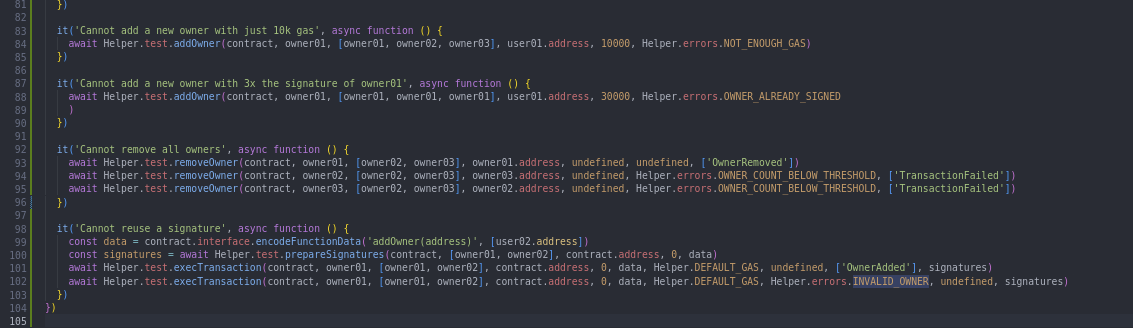
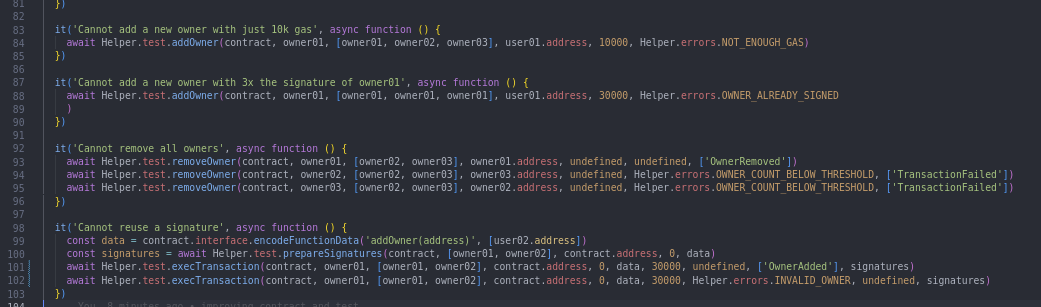
add deployment part

Changed region(s): [[0.0, 0.0, 0.9837, 1.0], [0.123, 0.9967, 0.3381, 1.0], [0.0615, 0.9967, 0.0922, 1.0]]

diff --git a/blog/03-05-2023-how-to-write-a-multi-signatures-contract-on-celo-using-hardhat-part-2-2/how-to-write-a-multi-signatures-contract-on-celo-using-hardhat-part-2-2.md b/blog/03-05-2023-how-to-write-a-multi-signatures-contract-on-celo-using-hardhat-part-2-2/how-to-write-a-multi-signatures-contract-on-celo-using-hardhat-part-2-2.md
@@ -287,7 +287,6 @@ const getEventFromReceipt = async (contract, receipt, eventName) => {
         try {
             return contract.interface.parseLog(log)
         } catch (e) {
-            console.log('e', e)
             return
         }
     })
@@ -330,24 +329,26 @@ We still have the main helper function to add, that will be used to test the exe
 ```js
 const execTransaction = async (contract, submitter, owners, to, value, data, gas = 30000, errorMsg, extraEvents, signatures) => {
     // Prepare signatures if not provided
-    if (!signatures) signatures = await prepareSignatures(contract, owners, to, value, data, gas)
+    if (!signatures) signatures = await prepareSignatures(contract, owners, to, value, data, gas);
     // Prepare transaction
-    const input = await contract.connect(submitter).populateTransaction.execTransaction(to, value, data, gas, signatures)
+    const input = await contract.connect(submitter).populateTransaction.execTransaction(to, value, data, gas, signatures);
   
     // Send the transaction and check the result
-    const receipt = await checkRawTxnResult(input, submitter, errorMsg)
+    const receipt = await checkRawTxnResult(input, submitter, errorMsg);
     if (!errorMsg) {
         // Check the event emitted (if transaction should succeed)
-        const event = await getEventFromReceipt(contract, receipt, 'TransactionExecuted')
+        const event = await getEventFromReceipt(contract, receipt, 'TransactionExecuted');
+        let found = false;
         for (var i = 0; i < event.length; i++) {
             if (event[i] && event[i].name === 'TransactionExecuted') {
                 // If the event is found, check the parameters
-                expect(event[i].args.sender).to.be.equal(submitter.address)
-                expect(event[i].args.to).to.be.equal(to)
-                expect(event[i].args.value).to.be.equal(value)
-                expect(event[i].args.data).to.be.equal(data)
-                expect(event[i].args.txnGas).to.be.equal(gas)
-                return receipt
+                expect(event[i].args.sender).to.be.equal(submitter.address);
+                expect(event[i].args.to).to.be.equal(to);
+                expect(event[i].args.value).to.be.equal(value);
+                expect(event[i].args.data).to.be.equal(data);
+                expect(event[i].args.txnGas).to.be.equal(gas);
+                found = true;
+                return receipt;
             } else {
                 // If the event is not found, check if the transaction failed
                 if (
@@ -357,15 +358,16 @@ const execTransaction = async (contract, submitter, owners, to, value, data, gas
                     event[i].name === 'TransactionFailed'
                 ) {
                     // If the transaction failed, check the parameters and if we expect a failure
-                    expect(event[i].args.sender).to.be.equal(submitter.address)
-                    expect(event[i].args.to).to.be.equal(to)
-                    expect(event[i].args.value).to.be.equal(value)
-                    expect(event[i].args.data).to.be.equal(data)
-                    expect(event[i].args.txnGas).to.be.equal(gas)
-                    return receipt
+                    expect(event[i].args.sender).to.be.equal(submitter.address);
+                    expect(event[i].args.to).to.be.equal(to);
+                    expect(event[i].args.value).to.be.equal(value);
+                    expect(event[i].args.data).to.be.equal(data);
+                    expect(event[i].args.txnGas).to.be.equal(gas);
+                    found = true;
+                    return receipt;
                 } else {
                     // If the transaction failed but we don't expect it, throw an error
-                    expect.fail('TransactionExecuted event not found')
+                    if (found) expect.fail('TransactionExecuted event not found')
                 }
             }
         }
@@ -374,11 +376,11 @@ const execTransaction = async (contract, submitter, owners, to, value, data, gas
         // If we expect an extra event, check if it is emitted
         if (extraEvents && extraEvents.length > 0) {
             for (let i = 1; i < extraEvents.length; i++) {
-                const eventsFound = await getEventFromReceipt(contract, receipt, event)
+                const eventsFound = await getEventFromReceipt(contract, receipt, event);
                 for (var ii = 0; i < eventsFound.length; ii++) {
                     if (eventsFound[ii]) {
-                        expect(submitter.address).to.be.equal(eventsFound[ii].sender)
-                        return receipt
+                        expect(submitter.address).to.be.equal(eventsFound[ii].sender);
+                        return receipt;
                     }
                 }
             }
@@ -747,8 +749,8 @@ Time to add some tests expecting the transaction to fail. So going back to the `
   it('Cannot reuse a signature', async function () {
     const data = contract.interface.encodeFunctionData('addOwner(address)', [user02.address])
     const signatures = await Helper.test.prepareSignatures(contract, [owner01, owner02], contract.address, 0, data)
-    await Helper.test.execTransaction(contract, owner01, [owner01, owner02], contract.address, 0, data, Helper.DEFAULT_GAS, undefined, ['OwnerAdded'], signatures)
-    await Helper.test.execTransaction(contract, owner01, [owner01, owner02], contract.address, 0, data, Helper.DEFAULT_GAS, Helper.errors.INVALID_OWNER, undefined, signatures)
+    await Helper.test.execTransaction(contract, owner01, [owner01, owner02], contract.address, 0, data, 30000, undefined, ['OwnerAdded'], signatures)
+    await Helper.test.execTransaction(contract, owner01, [owner01, owner02], contract.address, 0, data, 30000, Helper.errors.INVALID_OWNER, undefined, signatures)
   })
 ```
 
@@ -862,7 +864,125 @@ Let's organize these new files better, let's add the `MockERC20.sol` contract in
 
 ![Organize files](./images/add_MockERC20_contract_and_test_part2.png)
 
+Now if we run the tests again using the following command:
+
+```bash
+npx hardhat test
+```
+
+Doing so, we should have the following result:
+
+![Run tests again](./images/npx_hardhat_test_part8.png)
+
+We see that there is more tests for our mock ERC20 contract (a basic token contract), our next step is to add test in our `CeloMultiSig.test.js` file to test that we can deploy the Mock ERC20 contract, then use our multi-signatures contract to interact with it.
+Let's open first the `test/mocks/MockERC20.test.js` file to copy the deployment code of the Mock ERC20 contract:
+
+```javascript
+const MockERC20 = await ethers.getContractFactory('MockERC20')
+mockERC20 = await MockERC20.deploy()
+await mockERC20.deployed()
+```
+
+This is the code that deploy the mock ERC20 contract, so let's go back to the `test/CeloMultiSig.test.js` file and add the following code at the end of the file:
+
+```javascript
+  it('Deploy MockERC20 contract and mint token using the multi-signatures', async function () {
+    const MockERC20 = await ethers.getContractFactory('MockERC20')
+    mockERC20 = await MockERC20.deploy()
+    await mockERC20.deployed()
+
+    const data = mockERC20.interface.encodeFunctionData('mint(address,uint256)', [user02.address, 1000000])
+    const signatures = await Helper.test.prepareSignatures(contract, [owner01, owner02, owner03], mockERC20.address, 0, data, 50000)
+    await Helper.test.execTransaction(contract, owner01, [owner01, owner02, owner03], mockERC20.address, 0, data, 50000, undefined, ['Transfer'], signatures)
+    expect(await mockERC20.balanceOf(user02.address)).to.equal(1000000)
+  })
+
+  it('Deploy MockERC20 contract and mint token using the multi-signatures then burn them using the multi-signatures', async function () {
+    const MockERC20 = await ethers.getContractFactory('MockERC20')
+    mockERC20 = await MockERC20.deploy()
+    await mockERC20.deployed()
+
+    const data1 = mockERC20.interface.encodeFunctionData('mint(address,uint256)', [contract.address, 1000000])
+    const signatures1 = await Helper.test.prepareSignatures(contract, [owner01, owner02, owner03], mockERC20.address, 0, data1, 50000)
+    await Helper.test.execTransaction(contract, owner01, [owner01, owner02, owner03], mockERC20.address, 0, data1, 50000, undefined, ['Transfer'], signatures1)
+    expect(await mockERC20.balanceOf(contract.address)).to.equal(1000000)
+
+    const data2 = mockERC20.interface.encodeFunctionData('burn(uint256)', [1000000])
+    const signatures2 = await Helper.test.prepareSignatures(contract, [owner01, owner02, owner03], mockERC20.address, 0, data2, 50000)
+    await Helper.test.execTransaction(contract, owner01, [owner01, owner02, owner03], mockERC20.address, 0, data2, 50000, undefined, ['Transfer'], signatures2)
+    expect(await mockERC20.balanceOf(contract.address)).to.equal(0)
+  })
+```
+
+It should look like this:
+
+![Add tests](./images/build_test_file_part6.png)
+
+Now if we run the tests again using the following command:
+
+```bash
+npx hardhat test
+```
+
+Doing so, we should have the following result:
+
+![Run tests again](./images/npx_hardhat_test_part9.png)
+
+Perfect! We did it! We have now a multi-signatures contract that can interact with other contracts and be used for regular transaction. Now let's deploy our multi-signatures contract on the Celo Alfajores Testnet.
+
 ## Deploy the Multi-Signature Contract on Celo Alfajores Testnet
+
+It's time to deploy our multi-signatures contract on the Celo Alfajores Testnet. Let's go back to the `scripts/deploy.js` file and add change the file for the following code:
+
+```javascript
+const Helper = require('../test/helper');
+
+async function main() {
+  const [, owner01, owner02, owner03] = await Helper.setupProviderAndWallets();
+
+  const owners = [owner01.address, owner02.address, owner03.address]
+  const contract = await Helper.deployContract(owners, 2);
+
+  console.log(`Contract CeloMultiSig deployed to ${contract.address}`);
+  console.log(`Owners: ${owners}`);
+  console.log(`Required confirmations (threshold): 2`);
+}
+
+main().catch((error) => {
+  console.error(error);
+  process.exitCode = 1;
+});
+```
+
+It should look like this:
+
+![Deploy script](./images/hardhat_script_deploy.png)
+
+### Deploy locally
+
+Now let's run the following command to deploy our contract:
+
+```bash
+npx hardhat run scripts/deploy.js
+```
+
+Doing so, we should have the following result:
+
+![Deploy contract locally](./images/hardhat_run_deploy_local.png)
+
+### Deploy on Celo Alfajores Testnet
+
+We now deployed our contract locally, but we want to deploy it on the Celo Alfajores Testnet. If you have setup your mnemonic phrase in the `.env` file, you can run the following command to deploy your contract on the Celo Alfajores Testnet:
+
+```bash
+npx hardhat run scripts/deploy.js --network celoAlfajores
+```
+
+Doing so, we should have the following result:
+
+![Deploy contract on Celo Alfajores Testnet](./images/hardhat_run_deploy_alfajores.png)
+
+We now deployed our contract on the Celo Alfajores Testnet.
 
 ## Conclusion
 
